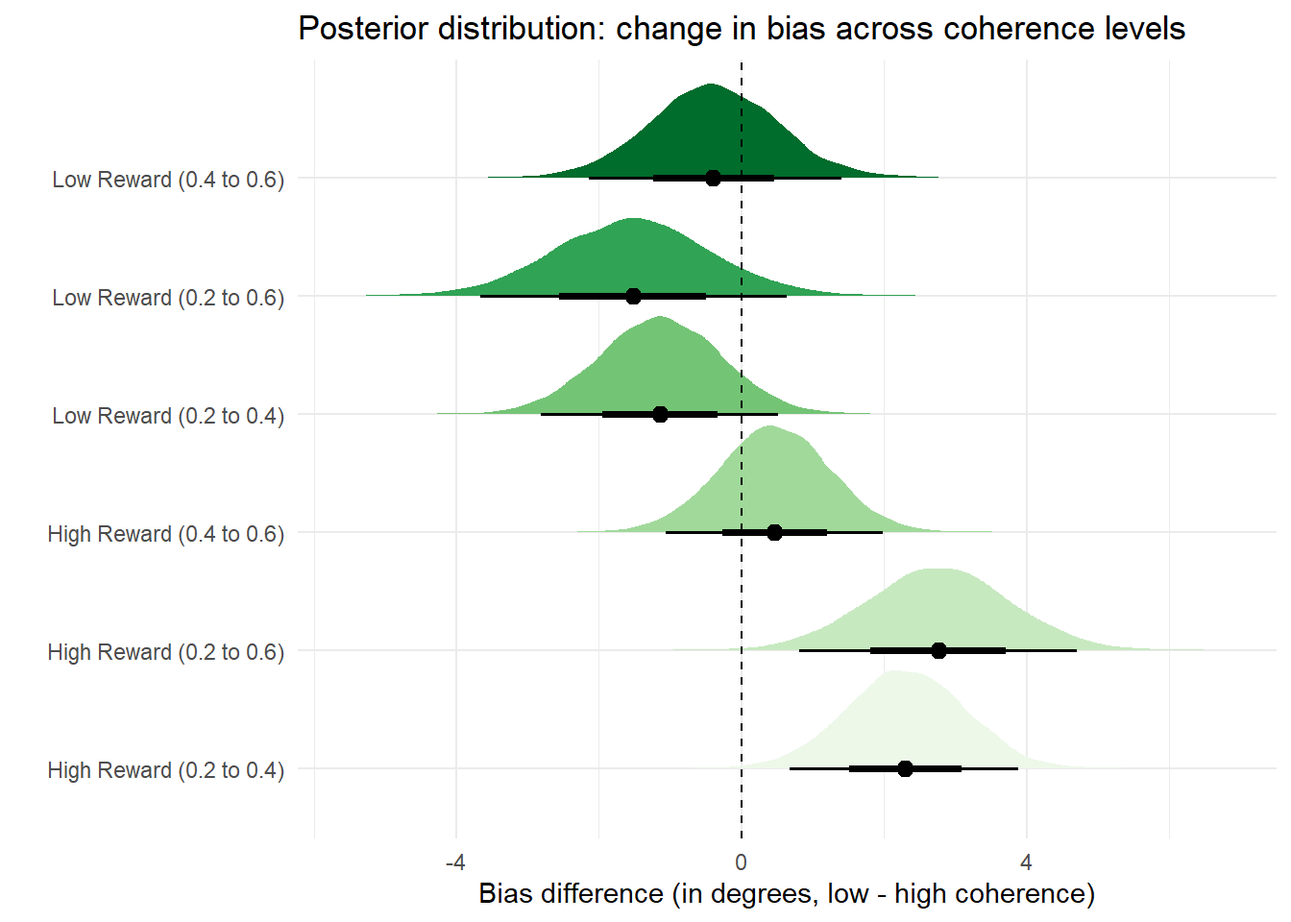
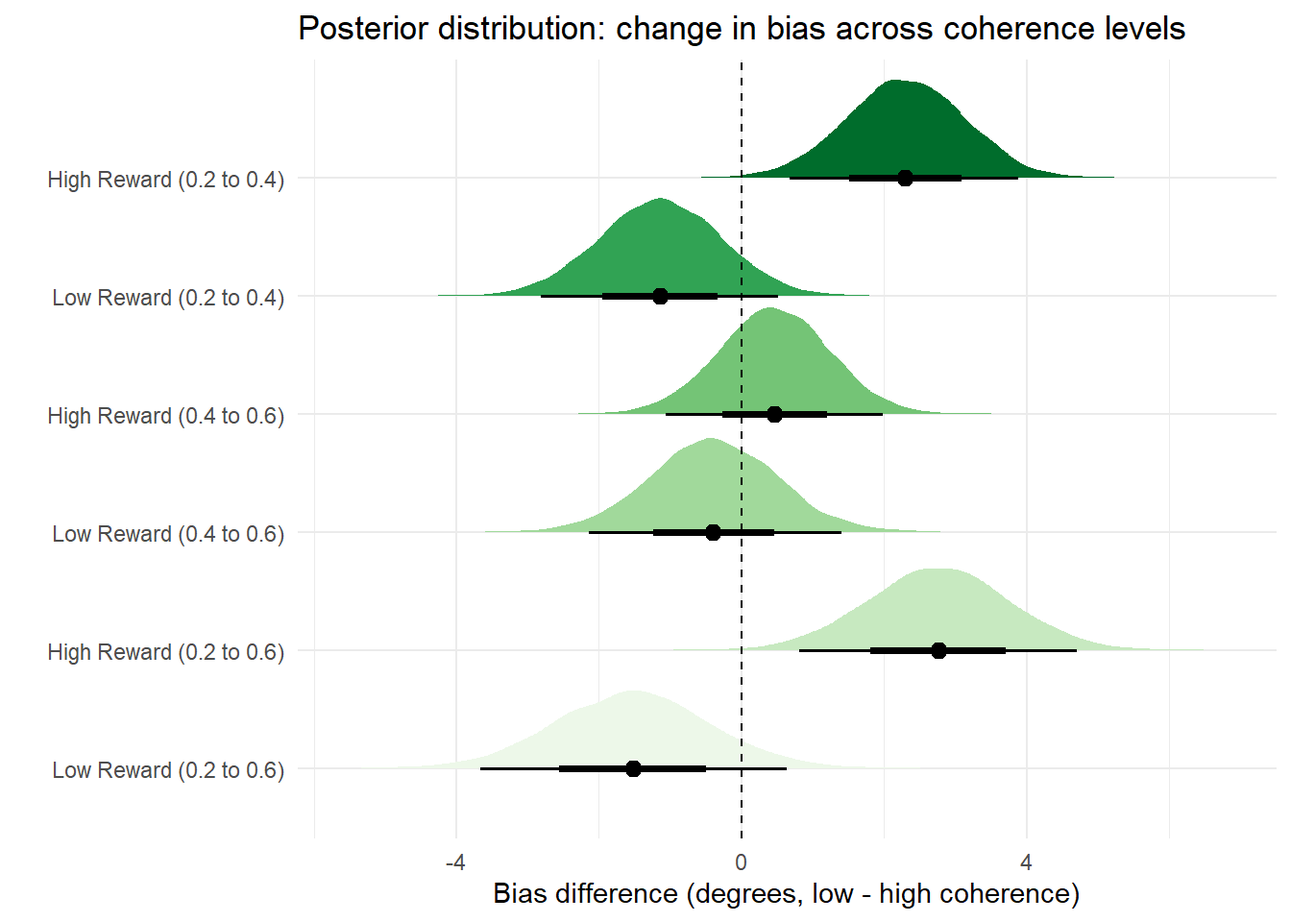
Add files via upload
more fixes

diff --git a/docs/responsebias_circularmodel.html b/docs/responsebias_circularmodel.html
@@ -85,19 +85,24 @@ ul.task-list li input[type="checkbox"] {
     <h2 id="toc-title">On this page</h2>
    
   <ul>
-  <li><a href="#core-and-catch-trials-reanalysis" id="toc-core-and-catch-trials-reanalysis" class="nav-link active" data-scroll-target="#core-and-catch-trials-reanalysis"><span class="header-section-number">1</span> Core and catch trials: reanalysis</a>
+  <li><a href="#new-approach-modelling-response-bias-and-precision" id="toc-new-approach-modelling-response-bias-and-precision" class="nav-link active" data-scroll-target="#new-approach-modelling-response-bias-and-precision"><span class="header-section-number">1</span> New approach: modelling response bias and precision</a>
   <ul class="collapse">
-  <li><a href="#does-the-model-fit" id="toc-does-the-model-fit" class="nav-link" data-scroll-target="#does-the-model-fit"><span class="header-section-number">1.1</span> Does the model fit?</a></li>
-  <li><a href="#is-a-response-bias-present" id="toc-is-a-response-bias-present" class="nav-link" data-scroll-target="#is-a-response-bias-present"><span class="header-section-number">1.2</span> Is a response bias present?</a></li>
-  <li><a href="#how-does-bias-change-with-coherence-and-reward" id="toc-how-does-bias-change-with-coherence-and-reward" class="nav-link" data-scroll-target="#how-does-bias-change-with-coherence-and-reward"><span class="header-section-number">1.3</span> How does bias change with coherence and reward?</a></li>
-  <li><a href="#does-response-precision-change-across-trial-types" id="toc-does-response-precision-change-across-trial-types" class="nav-link" data-scroll-target="#does-response-precision-change-across-trial-types"><span class="header-section-number">1.4</span> Does response precision change across trial types?</a></li>
-  <li><a href="#random-effects" id="toc-random-effects" class="nav-link" data-scroll-target="#random-effects"><span class="header-section-number">1.5</span> Random effects</a></li>
+  <li><a href="#problems-with-current-approach" id="toc-problems-with-current-approach" class="nav-link" data-scroll-target="#problems-with-current-approach"><span class="header-section-number">1.1</span> Problems with current approach</a></li>
+  <li><a href="#solution-circular-response-modelling-in-brms" id="toc-solution-circular-response-modelling-in-brms" class="nav-link" data-scroll-target="#solution-circular-response-modelling-in-brms"><span class="header-section-number">1.2</span> Solution: circular response modelling in <em>brms</em></a></li>
   </ul></li>
-  <li><a href="#dual-colour-trials-new-analysis" id="toc-dual-colour-trials-new-analysis" class="nav-link" data-scroll-target="#dual-colour-trials-new-analysis"><span class="header-section-number">2</span> Dual-colour trials: new analysis</a>
+  <li><a href="#core-and-catch-trials-reanalysis" id="toc-core-and-catch-trials-reanalysis" class="nav-link" data-scroll-target="#core-and-catch-trials-reanalysis"><span class="header-section-number">2</span> Core and catch trials: reanalysis</a>
   <ul class="collapse">
-  <li><a href="#is-a-response-bias-present-1" id="toc-is-a-response-bias-present-1" class="nav-link" data-scroll-target="#is-a-response-bias-present-1"><span class="header-section-number">2.1</span> Is a response bias present?</a></li>
-  <li><a href="#how-does-response-bias-change-across-coherence-levels" id="toc-how-does-response-bias-change-across-coherence-levels" class="nav-link" data-scroll-target="#how-does-response-bias-change-across-coherence-levels"><span class="header-section-number">2.2</span> How does response bias change across coherence levels?</a></li>
-  <li><a href="#does-response-precision-change" id="toc-does-response-precision-change" class="nav-link" data-scroll-target="#does-response-precision-change"><span class="header-section-number">2.3</span> Does response precision change?</a></li>
+  <li><a href="#does-the-model-fit" id="toc-does-the-model-fit" class="nav-link" data-scroll-target="#does-the-model-fit"><span class="header-section-number">2.1</span> Does the model fit?</a></li>
+  <li><a href="#is-a-response-bias-present" id="toc-is-a-response-bias-present" class="nav-link" data-scroll-target="#is-a-response-bias-present"><span class="header-section-number">2.2</span> Is a response bias present?</a></li>
+  <li><a href="#how-does-bias-change-with-coherence-and-reward" id="toc-how-does-bias-change-with-coherence-and-reward" class="nav-link" data-scroll-target="#how-does-bias-change-with-coherence-and-reward"><span class="header-section-number">2.3</span> How does bias change with coherence and reward?</a></li>
+  <li><a href="#does-response-precision-change-across-trial-types" id="toc-does-response-precision-change-across-trial-types" class="nav-link" data-scroll-target="#does-response-precision-change-across-trial-types"><span class="header-section-number">2.4</span> Does response precision change across trial types?</a></li>
+  <li><a href="#random-effects" id="toc-random-effects" class="nav-link" data-scroll-target="#random-effects"><span class="header-section-number">2.5</span> Random effects</a></li>
+  </ul></li>
+  <li><a href="#dual-colour-trials-new-analysis" id="toc-dual-colour-trials-new-analysis" class="nav-link" data-scroll-target="#dual-colour-trials-new-analysis"><span class="header-section-number">3</span> Dual-colour trials: new analysis</a>
+  <ul class="collapse">
+  <li><a href="#is-a-response-bias-present-1" id="toc-is-a-response-bias-present-1" class="nav-link" data-scroll-target="#is-a-response-bias-present-1"><span class="header-section-number">3.1</span> Is a response bias present?</a></li>
+  <li><a href="#how-does-response-bias-change-across-coherence-levels" id="toc-how-does-response-bias-change-across-coherence-levels" class="nav-link" data-scroll-target="#how-does-response-bias-change-across-coherence-levels"><span class="header-section-number">3.2</span> How does response bias change across coherence levels?</a></li>
+  <li><a href="#does-response-precision-change" id="toc-does-response-precision-change" class="nav-link" data-scroll-target="#does-response-precision-change"><span class="header-section-number">3.3</span> Does response precision change?</a></li>
   </ul></li>
   </ul>
 </nav>
@@ -124,17 +129,24 @@ ul.task-list li input[type="checkbox"] {
 </header>
 
 
+<section id="new-approach-modelling-response-bias-and-precision" class="level2" data-number="1">
+<h2 data-number="1" class="anchored" data-anchor-id="new-approach-modelling-response-bias-and-precision"><span class="header-section-number">1</span> New approach: modelling response bias and precision</h2>
+<section id="problems-with-current-approach" class="level3" data-number="1.1">
+<h3 data-number="1.1" class="anchored" data-anchor-id="problems-with-current-approach"><span class="header-section-number">1.1</span> Problems with current approach</h3>
 <p>After Friday’s meeting I had a think about how we might model response bias in the dot motion task. At the moment there are a few problems with our analytic approach:</p>
 <ul>
 <li><p>It’s a compromise. We either exclude a lot of the data (restricting range to ±90° for ANOVA) or end up with an artificial metric that’s quite difficult to interpret (Rangelov et al.&nbsp;regression approach)</p></li>
 <li><p>It’s tough to answer questions about how responses are <em>distributed</em>, as opposed to simply looking at their means. As discussed, this is important if we want to assess whether people are guessing more on low-reward trials.</p></li>
 <li><p>It doesn’t work very well for our minority trial types (catch trials with 60% coherence, and dual-colour trials which pit high-reward and low-reward dot clouds against each other). Data per participant is quite sparse for these trial types, so they’re less appropriate for a straightforward ANOVA technique where we take condition means per participant.</p></li>
 </ul>
+</section>
+<section id="solution-circular-response-modelling-in-brms" class="level3" data-number="1.2">
+<h3 data-number="1.2" class="anchored" data-anchor-id="solution-circular-response-modelling-in-brms"><span class="header-section-number">1.2</span> Solution: circular response modelling in <em>brms</em></h3>
 <p>I went back to the drawing board and realised that we can simply model circular responses directly in the R package <em>brms</em>. This solves all of our problems:</p>
 <table class="caption-top table">
 <colgroup>
-<col style="width: 23%">
-<col style="width: 76%">
+<col style="width: 36%">
+<col style="width: 63%">
 </colgroup>
 <tbody>
 <tr class="odd">
@@ -158,7 +170,7 @@ ul.task-list li input[type="checkbox"] {
 <p>These models are based off the von Mises distribution (circular equivalent of the normal distribution), which is defined by two parameters:</p>
 <ul>
 <li><p><em>mu</em>: the location parameter (where the distribution peaks)</p></li>
-<li><p><em>kappa</em>: the concentration parameter (how tightly clustered the data are around the peak of the distribution; like an inverse of dispersion measures such as SD)</p></li>
+<li><p><em>kappa</em>: the concentration parameter (how tightly clustered the data are around the peak of the distribution; inverse of dispersion measures such as SD)</p></li>
 </ul>
 <p>I’ve fit two models to the data in <em>brms</em>, as follows:</p>
 <ul>
@@ -173,14 +185,17 @@ ul.task-list li input[type="checkbox"] {
 <li><p>kappa ~ coherence + (coherence | participant)</p></li>
 </ul></li>
 </ul>
-<section id="core-and-catch-trials-reanalysis" class="level2" data-number="1">
-<h2 data-number="1" class="anchored" data-anchor-id="core-and-catch-trials-reanalysis"><span class="header-section-number">1</span> Core and catch trials: reanalysis</h2>
+<p><em>Note</em>: I realised as I went to send this off that I can actually fit the model as a 3x3 design, where the dual-colour trials are treated as another (mystery) level of reward. This will help tighten up the model fit for that trial type as reported at the end of this page. Obviously there are no mystery/60% coherence trials in our design: the model will still estimate what it thinks should happen for that trial type, but we can just ignore the output for that cell.</p>
+</section>
+</section>
+<section id="core-and-catch-trials-reanalysis" class="level2" data-number="2">
+<h2 data-number="2" class="anchored" data-anchor-id="core-and-catch-trials-reanalysis"><span class="header-section-number">2</span> Core and catch trials: reanalysis</h2>
 <p><em>Core</em> trials made up the majority (90%; 432/480 trials) of the task. They’re what we’ve discussed in meetings so far: participants saw an equal number of trials from each cell of our 2 x 2 design (2 reward levels: low, high; 2 coherence levels: 20%, 40%).</p>
 <p>C<em>atch</em> trials (those with coherence 60%) comprised 5% of the total number of trials in the experiment (24/480), with an equal number of catch trials in each block. There were an equal number of high-reward and low-reward catch trials. In theory, these trials are so easy that we shouldn’t be seeing any reward-related bias in responding.</p>
 <p>Because catch trials basically add another level of coherence to the core 2 x 2 design, they can be directly added into a combined model. One thing to keep in mind is that estimation will often be less precise for 60% coherence trials as the model is informed by less data from this trial type.</p>
-<section id="does-the-model-fit" class="level3" data-number="1.1">
-<h3 data-number="1.1" class="anchored" data-anchor-id="does-the-model-fit"><span class="header-section-number">1.1</span> Does the model fit?</h3>
-<p>Let’s first visually inspect how the model is fitting relative to the observed data.</p>
+<section id="does-the-model-fit" class="level3" data-number="2.1">
+<h3 data-number="2.1" class="anchored" data-anchor-id="does-the-model-fit"><span class="header-section-number">2.1</span> Does the model fit?</h3>
+<p>First, let’s visually inspect how the model is fitting relative to the observed data.</p>
 <div class="cell">
 <div class="cell-output-display">
 <div>
@@ -190,10 +205,10 @@ ul.task-list li input[type="checkbox"] {
 </div>
 </div>
 </div>
-<p>Overall, model fit is looking fairly good. The key concern is that it’s slightly underestimating the heights of the distributions’ peaks, and for 40% coherence the ‘shoulders’ are a bit too wide. Both of these things suggest we should tweak priors for response precision, and/or fit a mixture model that accounts for guessing also. For now, this fit is near enough that I think we can take the following results as indicators of what we’d expect to see from a mixture modelling approach.</p>
+<p>Overall, model fit is looking OKish. The key concern is that it’s slightly underestimating the heights of the distributions’ peaks, and for 40% coherence the ‘shoulders’ are a bit too wide. Both of these things suggest we should tweak priors for response precision, and/or fit a mixture model that accounts for guessing also. For now, this fit is near enough that I think we can take the following results as indicators of what we’d expect to see from a mixture modelling approach.</p>
 </section>
-<section id="is-a-response-bias-present" class="level3" data-number="1.2">
-<h3 data-number="1.2" class="anchored" data-anchor-id="is-a-response-bias-present"><span class="header-section-number">1.2</span> Is a response bias present?</h3>
+<section id="is-a-response-bias-present" class="level3" data-number="2.2">
+<h3 data-number="2.2" class="anchored" data-anchor-id="is-a-response-bias-present"><span class="header-section-number">2.2</span> Is a response bias present?</h3>
 <p>First let’s see how the model has estimated <em>mu</em> (mean) in each reward x coherence condition.</p>
 <div class="cell">
 <div class="cell-output-display">
@@ -273,16 +288,16 @@ ul.task-list li input[type="checkbox"] {
 </div>
 <p>Takeaways:</p>
 <ul>
-<li><p>When coherence is low (20%), there is a credible response bias for high-value trials but not low-value ones</p></li>
-<li><p>When coherence is medium (40%), there is a credible (but small) response bias for both high and low-value trials.</p></li>
-<li><p>When coherence is high (60%), there is no longer a response bias for high-value trials. Conversely, the response bias for low-value trials persists.</p></li>
+<li><p>When coherence is <em>low</em> (20%), there is a credible response bias for high-value trials but not low-value ones</p></li>
+<li><p>When coherence is <em>medium</em> (40%), there is a credible (but small) response bias for both high and low-value trials.</p></li>
+<li><p>When coherence is <em>high</em> (60%), there is no longer a response bias for high-value trials. Conversely, the response bias for low-value trials persists.</p></li>
 </ul>
 </section>
-<section id="how-does-bias-change-with-coherence-and-reward" class="level3" data-number="1.3">
-<h3 data-number="1.3" class="anchored" data-anchor-id="how-does-bias-change-with-coherence-and-reward"><span class="header-section-number">1.3</span> How does bias change with coherence and reward?</h3>
-<p>The nice thing about this modelling approach is that we can see the posterior distribution for the size of changes to response bias across levels of coherence and reward (i.e., the range of plausible values for how much the response has actually shifted). In these graphs, the plotted point is the median difference and the whiskers are the 66% (thick) and 95% (thin) credible intervals.</p>
-<section id="effect-of-coherence" class="level4" data-number="1.3.1">
-<h4 data-number="1.3.1" class="anchored" data-anchor-id="effect-of-coherence"><span class="header-section-number">1.3.1</span> Effect of coherence</h4>
+<section id="how-does-bias-change-with-coherence-and-reward" class="level3" data-number="2.3">
+<h3 data-number="2.3" class="anchored" data-anchor-id="how-does-bias-change-with-coherence-and-reward"><span class="header-section-number">2.3</span> How does bias change with coherence and reward?</h3>
+<p>The nice thing about this modelling approach is that we can see the posterior distributions for <em>differences</em> in response bias across levels of coherence and reward (i.e., the range of plausible values for how much the response has actually shifted). In these graphs, the plotted point is the median difference and the whiskers are the 66% (thick) and 95% (thin) credible intervals.</p>
+<section id="effect-of-coherence" class="level4" data-number="2.3.1">
+<h4 data-number="2.3.1" class="anchored" data-anchor-id="effect-of-coherence"><span class="header-section-number">2.3.1</span> Effect of coherence</h4>
 <p>Firstly, let’s take a look at how coherence affects response bias within each level of reward.</p>
 <div class="cell">
 <div class="cell-output-display">
@@ -297,7 +312,7 @@ ul.task-list li input[type="checkbox"] {
 <caption>Change in bias across coherence levels</caption>
 <thead>
 <tr class="header">
-<th style="text-align: left;" data-quarto-table-cell-role="th">Reward Level</th>
+<th style="text-align: left;" data-quarto-table-cell-role="th">Reward Level Contrast</th>
 <th style="text-align: center;" data-quarto-table-cell-role="th">Median Diff</th>
 <th style="text-align: center;" data-quarto-table-cell-role="th">Lower 95%</th>
 <th style="text-align: center;" data-quarto-table-cell-role="th">Upper 95%</th>
@@ -313,11 +328,11 @@ ul.task-list li input[type="checkbox"] {
 <td style="text-align: center;">1.00</td>
 </tr>
 <tr class="even">
-<td style="text-align: left;">hi coherence0.2 - hi coherence0.6</td>
-<td style="text-align: center;">2.76</td>
-<td style="text-align: center;">0.81</td>
-<td style="text-align: center;">4.70</td>
-<td style="text-align: center;">1.00</td>
+<td style="text-align: left;">lo coherence0.2 - lo coherence0.4</td>
+<td style="text-align: center;">-1.14</td>
+<td style="text-align: center;">-2.81</td>
+<td style="text-align: center;">0.51</td>
+<td style="text-align: center;">0.91</td>
 </tr>
 <tr class="odd">
 <td style="text-align: left;">hi coherence0.4 - hi coherence0.6</td>
@@ -327,25 +342,25 @@ ul.task-list li input[type="checkbox"] {
 <td style="text-align: center;">0.73</td>
 </tr>
 <tr class="even">
-<td style="text-align: left;">lo coherence0.2 - lo coherence0.4</td>
-<td style="text-align: center;">-1.14</td>
-<td style="text-align: center;">-2.81</td>
-<td style="text-align: center;">0.51</td>
-<td style="text-align: center;">0.91</td>
-</tr>
-<tr class="odd">
-<td style="text-align: left;">lo coherence0.2 - lo coherence0.6</td>
-<td style="text-align: center;">-1.53</td>
-<td style="text-align: center;">-3.67</td>
-<td style="text-align: center;">0.63</td>
-<td style="text-align: center;">0.92</td>
-</tr>
-<tr class="even">
 <td style="text-align: left;">lo coherence0.4 - lo coherence0.6</td>
 <td style="text-align: center;">-0.40</td>
 <td style="text-align: center;">-2.15</td>
 <td style="text-align: center;">1.40</td>
 <td style="text-align: center;">0.67</td>
+</tr>
+<tr class="odd">
+<td style="text-align: left;">hi coherence0.2 - hi coherence0.6</td>
+<td style="text-align: center;">2.76</td>
+<td style="text-align: center;">0.81</td>
+<td style="text-align: center;">4.70</td>
+<td style="text-align: center;">1.00</td>
+</tr>
+<tr class="even">
+<td style="text-align: left;">lo coherence0.2 - lo coherence0.6</td>
+<td style="text-align: center;">-1.53</td>
+<td style="text-align: center;">-3.67</td>
+<td style="text-align: center;">0.63</td>
+<td style="text-align: center;">0.92</td>
 </tr>
 </tbody>
 </table>
@@ -355,12 +370,12 @@ ul.task-list li input[type="checkbox"] {
 </div>
 <p>Takeaways:</p>
 <ul>
-<li><p>For low-reward trials, the bias is stable: it doesn’t reliably change across any of the coherence comparisons</p></li>
-<li><p>For high-reward trials, the exceptional condition is low coherence: bias in this condition is credibly higher than in either the medium or high coherence condition. Note that the bias doesn’t credibly differ across the two higher-coherence conditions.</p></li>
+<li><p>For <em>low-reward trials</em>, the bias is stable: it doesn’t reliably change across any of the coherence comparisons</p></li>
+<li><p>For <em>high-reward trials</em>, the exceptional condition is low coherence: bias in this condition is credibly higher than in either the medium or high coherence condition. Note that the bias doesn’t credibly differ across the two higher-coherence conditions.</p></li>
 </ul>
 </section>
-<section id="effect-of-reward" class="level4" data-number="1.3.2">
-<h4 data-number="1.3.2" class="anchored" data-anchor-id="effect-of-reward"><span class="header-section-number">1.3.2</span> Effect of reward</h4>
+<section id="effect-of-reward" class="level4" data-number="2.3.2">
+<h4 data-number="2.3.2" class="anchored" data-anchor-id="effect-of-reward"><span class="header-section-number">2.3.2</span> Effect of reward</h4>
 <div class="cell">
 <div class="cell-output-display">
 <div>
@@ -383,11 +398,11 @@ ul.task-list li input[type="checkbox"] {
 </thead>
 <tbody>
 <tr class="odd">
-<td style="text-align: left;">hi coherence0.6 - lo coherence0.6</td>
-<td style="text-align: center;">-1.43</td>
-<td style="text-align: center;">-3.46</td>
-<td style="text-align: center;">0.61</td>
-<td style="text-align: center;">0.92</td>
+<td style="text-align: left;">hi coherence0.2 - lo coherence0.2</td>
+<td style="text-align: center;">2.86</td>
+<td style="text-align: center;">0.78</td>
+<td style="text-align: center;">4.95</td>
+<td style="text-align: center;">1.00</td>
 </tr>
 <tr class="even">
 <td style="text-align: left;">hi coherence0.4 - lo coherence0.4</td>
@@ -397,11 +412,11 @@ ul.task-list li input[type="checkbox"] {
 <td style="text-align: center;">0.85</td>
 </tr>
 <tr class="odd">
-<td style="text-align: left;">hi coherence0.2 - lo coherence0.2</td>
-<td style="text-align: center;">2.86</td>
-<td style="text-align: center;">0.78</td>
-<td style="text-align: center;">4.95</td>
-<td style="text-align: center;">1.00</td>
+<td style="text-align: left;">hi coherence0.6 - lo coherence0.6</td>
+<td style="text-align: center;">-1.43</td>
+<td style="text-align: center;">-3.46</td>
+<td style="text-align: center;">0.61</td>
+<td style="text-align: center;">0.92</td>
 </tr>
 </tbody>
 </table>
@@ -416,8 +431,8 @@ ul.task-list li input[type="checkbox"] {
 </ul>
 </section>
 </section>
-<section id="does-response-precision-change-across-trial-types" class="level3" data-number="1.4">
-<h3 data-number="1.4" class="anchored" data-anchor-id="does-response-precision-change-across-trial-types"><span class="header-section-number">1.4</span> Does response precision change across trial types?</h3>
+<section id="does-response-precision-change-across-trial-types" class="level3" data-number="2.4">
+<h3 data-number="2.4" class="anchored" data-anchor-id="does-response-precision-change-across-trial-types"><span class="header-section-number">2.4</span> Does response precision change across trial types?</h3>
 <p>Next, let’s see how the model has estimated <em>kappa</em> (response precision) in each reward x coherence condition.</p>
 <div class="cell">
 <div class="cell-output-display">
@@ -455,42 +470,42 @@ ul.task-list li input[type="checkbox"] {
 <tbody>
 <tr class="odd">
 <td rowspan="2" style="text-align: left; vertical-align: top !important;">0.2</td>
-<td style="text-align: left;">hi</td>
-<td style="text-align: center;">0.599</td>
-<td style="text-align: center;">0.483</td>
-<td style="text-align: center;">0.742</td>
-</tr>
-<tr class="even">
 <td style="text-align: left;">lo</td>
 <td style="text-align: center;">0.597</td>
 <td style="text-align: center;">0.486</td>
 <td style="text-align: center;">0.737</td>
 </tr>
+<tr class="even">
+<td style="text-align: left;">hi</td>
+<td style="text-align: center;">0.599</td>
+<td style="text-align: center;">0.483</td>
+<td style="text-align: center;">0.742</td>
+</tr>
 <tr class="odd">
 <td rowspan="2" style="text-align: left; vertical-align: top !important;">0.4</td>
-<td style="text-align: left;">hi</td>
-<td style="text-align: center;">1.491</td>
-<td style="text-align: center;">1.204</td>
-<td style="text-align: center;">1.853</td>
-</tr>
-<tr class="even">
 <td style="text-align: left;">lo</td>
 <td style="text-align: center;">1.370</td>
 <td style="text-align: center;">1.115</td>
 <td style="text-align: center;">1.684</td>
 </tr>
+<tr class="even">
+<td style="text-align: left;">hi</td>
+<td style="text-align: center;">1.491</td>
+<td style="text-align: center;">1.204</td>
+<td style="text-align: center;">1.853</td>
+</tr>
 <tr class="odd">
 <td rowspan="2" style="text-align: left; vertical-align: top !important;">0.6</td>
-<td style="text-align: left;">hi</td>
-<td style="text-align: center;">2.677</td>
-<td style="text-align: center;">1.983</td>
-<td style="text-align: center;">3.598</td>
-</tr>
-<tr class="even">
 <td style="text-align: left;">lo</td>
 <td style="text-align: center;">2.166</td>
 <td style="text-align: center;">1.578</td>
 <td style="text-align: center;">2.973</td>
+</tr>
+<tr class="even">
+<td style="text-align: left;">hi</td>
+<td style="text-align: center;">2.677</td>
+<td style="text-align: center;">1.983</td>
+<td style="text-align: center;">3.598</td>
 </tr>
 </tbody>
 </table>
@@ -565,9 +580,9 @@ ul.task-list li input[type="checkbox"] {
 </div>
 <p>So yes: while there’s no difference in response precision for low-coherence trials, it does appear that people are trying less hard for low-reward trials when coherence is higher.</p>
 </section>
-<section id="random-effects" class="level3" data-number="1.5">
-<h3 data-number="1.5" class="anchored" data-anchor-id="random-effects"><span class="header-section-number">1.5</span> Random effects</h3>
-<p>It’s also worth checking the random intercepts for <em>mu</em> (mean) from the model. While these aren’t random <em>slopes</em> (i.e., they don’t vary by task condition), they do give an indicator of individual propensity to demonstrate response bias on this task. Combined with the random intercepts for <em>kappa</em> (response precision), we can do a quick visual check: should we be concerned that the biases we’re seeing are driven by individuals whose responses are more imprecise?</p>
+<section id="random-effects" class="level3" data-number="2.5">
+<h3 data-number="2.5" class="anchored" data-anchor-id="random-effects"><span class="header-section-number">2.5</span> Random effects</h3>
+<p>It’s also worth checking the model’s random effects, which give an indicator of individual propensity to demonstrate response bias in each task condition. Let’s do a quick visual check: should we be concerned that the biases we’re seeing are driven by individuals whose responses are more imprecise?</p>
 <div class="cell">
 <div class="cell-output-display">
 <div>
@@ -577,14 +592,14 @@ ul.task-list li input[type="checkbox"] {
 </div>
 </div>
 </div>
-<p>In this graph, we see ‘baseline bias’: the model intercept for bias with each participant’s offset added. Overall, if anything, it looks like people who are <em>poor</em> responders tend to have baseline biases close to 0, which is consistent with the idea that they’re guessing more.</p>
+<p>In this graph, we see the condition intercept for bias with each participant’s condition offset added. Overall, if anything, it looks like people who are <em>poor</em> responders tend to have baseline biases close to 0, which is consistent with the idea that they’re guessing more and their responses are randomly distributed.</p>
 </section>
 </section>
-<section id="dual-colour-trials-new-analysis" class="level2" data-number="2">
-<h2 data-number="2" class="anchored" data-anchor-id="dual-colour-trials-new-analysis"><span class="header-section-number">2</span> Dual-colour trials: new analysis</h2>
+<section id="dual-colour-trials-new-analysis" class="level2" data-number="3">
+<h2 data-number="3" class="anchored" data-anchor-id="dual-colour-trials-new-analysis"><span class="header-section-number">3</span> Dual-colour trials: new analysis</h2>
 <p>Finally, let’s analyse the <em>dual-colour</em> trials (those where participants saw one high-reward and one low-reward patch). These trials comprised 5% of the experiment (24/480) but only appeared in the second half of blocks, by which time participants should have been well-versed in the colour-reward contingencies for the task. Participants didn’t get score feedback for this trial type until the end of the experiment, when they learnt their cumulative score for these trials. There were an equal number of high-coherence and low-coherence dual-colour trials.</p>
-<section id="is-a-response-bias-present-1" class="level3" data-number="2.1">
-<h3 data-number="2.1" class="anchored" data-anchor-id="is-a-response-bias-present-1"><span class="header-section-number">2.1</span> Is a response bias present?</h3>
+<section id="is-a-response-bias-present-1" class="level3" data-number="3.1">
+<h3 data-number="3.1" class="anchored" data-anchor-id="is-a-response-bias-present-1"><span class="header-section-number">3.1</span> Is a response bias present?</h3>
 <p>When we talk about a <em>response bias</em> for dual-colour trials, I mean that the participant’s response was biased towards the high-reward motion direction rather the low-reward one. First let’s see how the model has estimated <em>mu</em> (mean) in each coherence condition.</p>
 <div class="cell">
 <div class="cell-output-display">
@@ -629,8 +644,8 @@ ul.task-list li input[type="checkbox"] {
 </div>
 <p>Neither mean differs credibly from 0. It seems plausible that if we had more data, we might see a reward bias when coherence is low, but the posterior distribution is pretty wide because there are so few datapoints and performance under low coherence is inherently more noisy.</p>
 </section>
-<section id="how-does-response-bias-change-across-coherence-levels" class="level3" data-number="2.2">
-<h3 data-number="2.2" class="anchored" data-anchor-id="how-does-response-bias-change-across-coherence-levels"><span class="header-section-number">2.2</span> How does response bias change across coherence levels?</h3>
+<section id="how-does-response-bias-change-across-coherence-levels" class="level3" data-number="3.2">
+<h3 data-number="3.2" class="anchored" data-anchor-id="how-does-response-bias-change-across-coherence-levels"><span class="header-section-number">3.2</span> How does response bias change across coherence levels?</h3>
 <p>Although it seems unlikely that a credible change will be detected given how wide the posterior distribution for low-coherence trials is, let’s check anyway.</p>
 <div class="cell">
 <div class="cell-output-display">
@@ -681,8 +696,8 @@ ul.task-list li input[type="checkbox"] {
 </div>
 <p>As expected, we don’t have evidence of a credible difference in response bias across coherence levels here.</p>
 </section>
-<section id="does-response-precision-change" class="level3" data-number="2.3">
-<h3 data-number="2.3" class="anchored" data-anchor-id="does-response-precision-change"><span class="header-section-number">2.3</span> Does response precision change?</h3>
+<section id="does-response-precision-change" class="level3" data-number="3.3">
+<h3 data-number="3.3" class="anchored" data-anchor-id="does-response-precision-change"><span class="header-section-number">3.3</span> Does response precision change?</h3>
 <p><em>Kappa</em> (response precision) for dual-colour trials is not so interesting, as the only factor being varied is coherence. As expected, response precision is much higher for high-coherence trials than low-coherence ones.</p>
 <div class="cell">
 <div class="cell-output-display">
